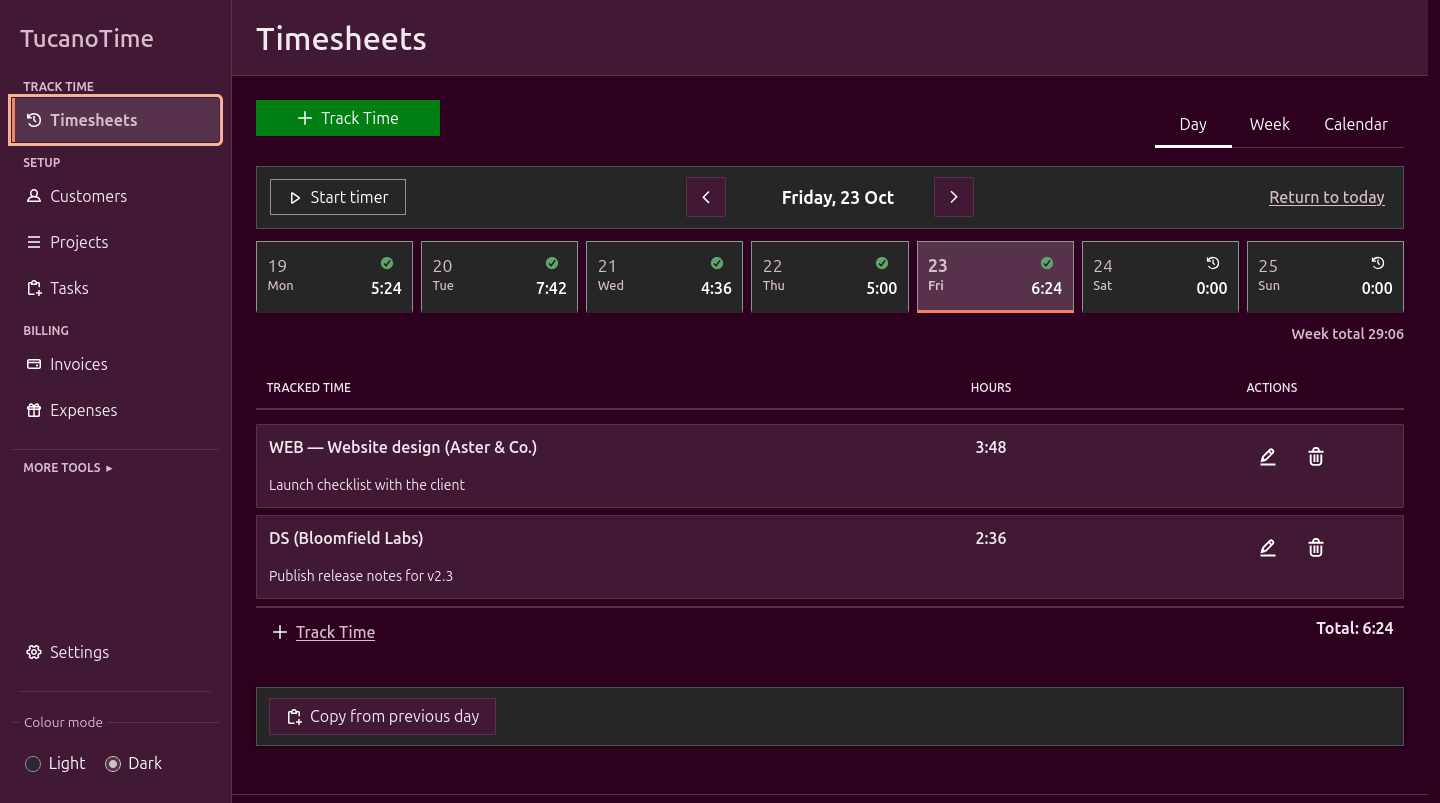
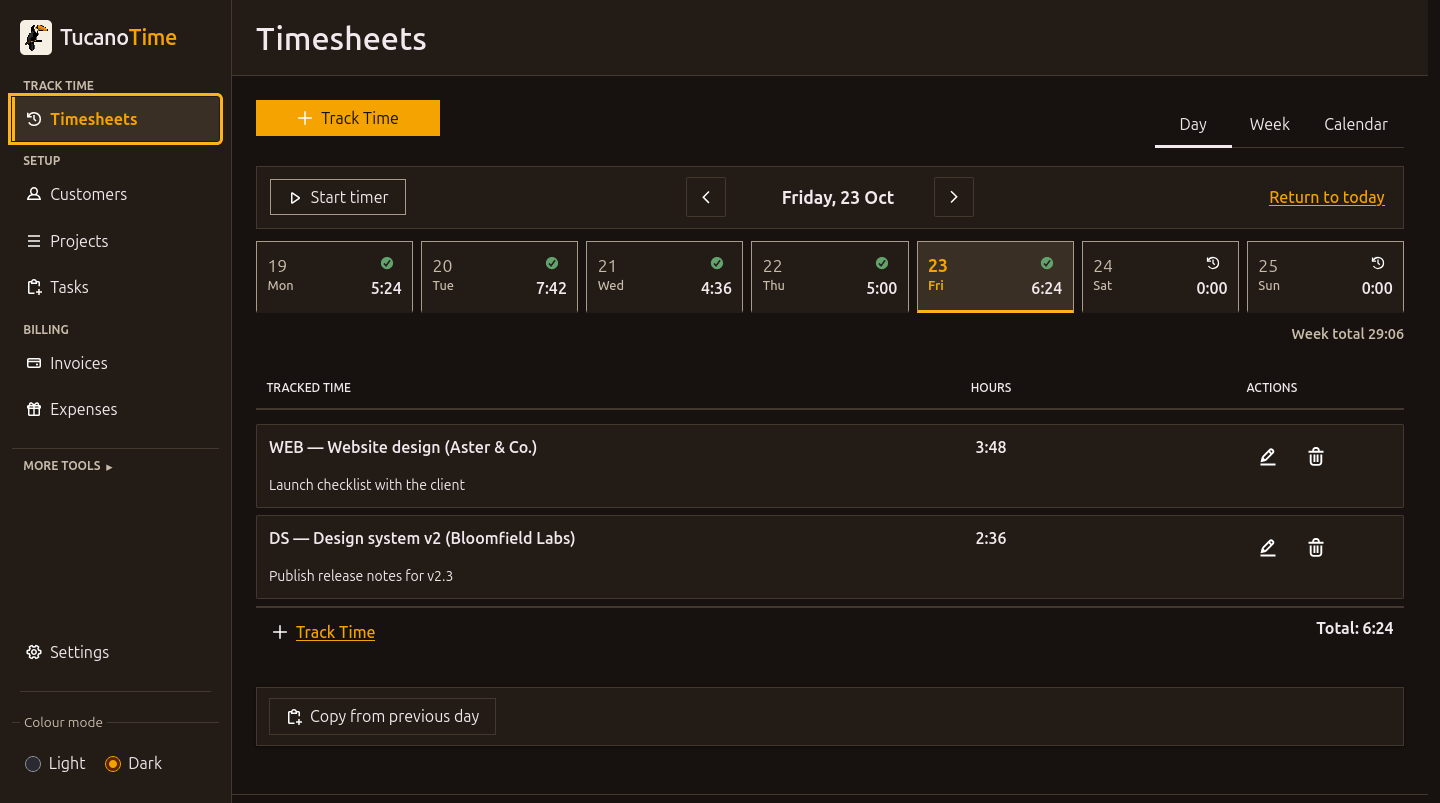
feat: refresh screenshots and clarify the AI wording
Use the newly branded Tucano Time app captures (light, dark, week,
invoices, expenses and the mobile hero) and update the social card.

Replace the absolute "no AI" claim with the accurate story: AI tools
helped build the app, but the running product has no AI in its data path
and never sends timesheets, clients or invoices to an AI. Update the
privacy page, FAQ, metadata, house rules and image dimensions, and
cache-bust the changed screenshot URLs.

diff --git a/site/index.html b/site/index.html
@@ -4,7 +4,7 @@
   <meta charset="utf-8">
   <meta name="viewport" content="width=device-width, initial-scale=1">
   <title>Tucano Time — Self-hosted timesheets and invoicing</title>
-  <meta name="description" content="Free, self-hosted timesheets and invoicing for freelancers and small teams. Your data stays on your hardware. No cloud, no telemetry, no AI. AGPL-3.0.">
+  <meta name="description" content="Free, self-hosted timesheets and invoicing for freelancers and small teams. Your data stays on your hardware. No cloud, no telemetry, and AI never touches your data. AGPL-3.0.">
   <link rel="canonical" href="https://tucanotime.com/">
   <meta name="theme-color" content="#f6f0e4">
   <meta name="color-scheme" content="light">
@@ -13,7 +13,7 @@
   <meta property="og:site_name" content="Tucano Time">
   <meta property="og:url" content="https://tucanotime.com/">
   <meta property="og:title" content="Tucano Time — Your hours. Your invoices. Your server.">
-  <meta property="og:description" content="A free, self-hosted timesheet and invoicing app for freelancers and small teams. Plain files, no cloud, no telemetry, no AI.">
+  <meta property="og:description" content="A free, self-hosted timesheet and invoicing app for freelancers and small teams. Plain files, no cloud, no telemetry — and AI never touches your data.">
   <meta property="og:image" content="https://tucanotime.com/assets/img/og.png">
   <meta property="og:image:width" content="1200">
   <meta property="og:image:height" content="630">
@@ -22,7 +22,7 @@
   <meta name="author" content="Tucano Technology">
   <meta name="twitter:card" content="summary_large_image">
   <meta name="twitter:title" content="Tucano Time — Your hours. Your invoices. Your server.">
-  <meta name="twitter:description" content="Free, self-hosted timesheets and invoicing. Your data stays on your hardware. No cloud, no telemetry, no AI.">
+  <meta name="twitter:description" content="Free, self-hosted timesheets and invoicing. Your data stays on your hardware. No cloud, no telemetry; AI never touches your data.">
   <meta name="twitter:image" content="https://tucanotime.com/assets/img/og.png">
   <meta name="twitter:image:alt" content="Tucano Time — your hours, your invoices, your server.">
 
@@ -68,7 +68,7 @@
         <div class="hero-copy">
           <p class="eyebrow"><span class="pulse" aria-hidden="true"></span> Free &amp; open source · Self-hosted</p>
           <h1>Your hours. Your invoices. <em>Your server.</em></h1>
-          <p class="hero-lede">Tucano Time is a calm, fast timesheet and invoicing app for freelancers and small teams. Run it on hardware you control and keep every client, hour and invoice in files you actually own — never in a cloud, and never in an AI.</p>
+          <p class="hero-lede">Tucano Time is a calm, fast timesheet and invoicing app for freelancers and small teams. Run it on hardware you control and keep every client, hour and invoice in files you actually own — never in someone else's cloud, and never fed to an AI.</p>
           <div class="hero-actions">
             <a class="btn btn-primary" href="#self-host">
               Self-host in minutes
@@ -83,7 +83,7 @@
             <li>AGPL-3.0</li>
             <li>No account</li>
             <li>No telemetry</li>
-            <li>No AI</li>
+            <li>AI never sees your data</li>
           </ul>
         </div>
 
@@ -96,8 +96,8 @@
               <span class="browser-local">local</span>
             </div>
             <picture>
-              <source media="(max-width: 620px)" srcset="assets/img/shot-day-mobile.png">
-              <img src="assets/img/shot-day.png" width="1440" height="940" alt="Tucano Time day view showing entries for two projects, the week strip with daily totals, and a start-timer button" fetchpriority="high">
+              <source media="(max-width: 620px)" srcset="assets/img/shot-day-mobile.png?v=2">
+              <img src="assets/img/shot-day.png?v=2" width="1440" height="803" alt="Tucano Time day view showing entries for two projects, the week strip with daily totals, and a start-timer button" fetchpriority="high">
             </picture>
           </figure>
           <img class="hero-toucan" src="assets/brand/tucano.png" alt="" width="223" height="244" aria-hidden="true">
@@ -125,7 +125,7 @@
             <p class="kicker">Data sovereignty</p>
             <h2>Your business is not <span class="mark">training data.</span></h2>
           </div>
-          <p class="lede">Tucano Time has no cloud account, no usage analytics and no AI anywhere in the product. It talks only to services you explicitly configure, plus an anonymous public exchange-rate feed. Everything else stays on the machine you chose.</p>
+          <p class="lede">Tucano Time has no cloud account, no usage analytics and no AI in its data path. AI tools helped build the software, but they never see your timesheets, clients or invoices. The app talks only to integrations you configure, plus an anonymous public exchange-rate feed.</p>
         </div>
 
         <div class="sovereignty-grid">
@@ -158,8 +158,8 @@
             <li>
               <span class="promise-num">02</span>
               <div>
-                <h3>No AI. No telemetry.</h3>
-                <p>There is no model, no tracking pixel and no third-party script. The browser GUI is served by the same binary, and nothing reports back to Tucano Technology.</p>
+                <h3>Built with AI. Not on your data.</h3>
+                <p>AI tools helped write the code. The running app has no model, no AI feature and no tracking pixel — your timesheets and invoices are never sent to an AI. Nothing reports back to Tucano Technology.</p>
               </div>
             </li>
             <li>
@@ -280,10 +280,10 @@
         </div>
 
         <div class="tour-tabs" role="tablist" aria-label="Product screens">
-          <button class="tour-tab is-active" type="button" role="tab" id="tab-day" aria-controls="tour-panel" aria-selected="true" data-img="assets/img/shot-day.png" data-alt="Day timesheet with project entries and weekly totals" data-url="localhost:8080/timesheets/day" data-kicker="Timesheets" data-title="A day, at a glance." data-copy="Hours per project, notes, week totals and a timer on one screen. Each day shows what is billable, what is missing and what has already been invoiced.">Day</button>
-          <button class="tour-tab" type="button" role="tab" id="tab-week" aria-controls="tour-panel" aria-selected="false" tabindex="-1" data-img="assets/img/shot-week.png" data-alt="Week grid with editable hours per project and day totals" data-url="localhost:8080/timesheets/week" data-kicker="Timesheets" data-title="Fill the week, not a form." data-copy="Type hours straight into the grid, press Enter to save, and copy the previous week when it rhymes. Totals update per day and per project as you go.">Week</button>
-          <button class="tour-tab" type="button" role="tab" id="tab-invoices" aria-controls="tour-panel" aria-selected="false" tabindex="-1" data-img="assets/img/shot-invoices.png" data-alt="Invoice register with drafts, sent invoices, part payments and an outstanding balance" data-url="localhost:8080/invoices" data-kicker="Invoices" data-title="From hours to a sent invoice." data-copy="Drafts, sent, partly paid, paid, written off. Issuing archives the PDF and locks the time it billed; payments are recorded against the invoice without rewriting history.">Invoices</button>
-          <button class="tour-tab" type="button" role="tab" id="tab-expenses" aria-controls="tour-panel" aria-selected="false" tabindex="-1" data-img="assets/img/shot-expenses.png" data-alt="Expense register with categories, billable flags and amounts per project" data-url="localhost:8080/expenses" data-kicker="Expenses" data-title="Receipts without the shoebox." data-copy="Categorise project costs, attach receipts, mark what is billable, and roll approved expenses into the next invoice with the time they belong to.">Expenses</button>
+          <button class="tour-tab is-active" type="button" role="tab" id="tab-day" aria-controls="tour-panel" aria-selected="true" data-img="assets/img/shot-day.png?v=2" data-alt="Day timesheet with project entries and weekly totals" data-url="localhost:8080/timesheets/day" data-kicker="Timesheets" data-title="A day, at a glance." data-copy="Hours per project, notes, week totals and a timer on one screen. Each day shows what is billable, what is missing and what has already been invoiced.">Day</button>
+          <button class="tour-tab" type="button" role="tab" id="tab-week" aria-controls="tour-panel" aria-selected="false" tabindex="-1" data-img="assets/img/shot-week.png?v=2" data-alt="Week grid with editable hours per project and day totals" data-url="localhost:8080/timesheets/week" data-kicker="Timesheets" data-title="Fill the week, not a form." data-copy="Type hours straight into the grid, press Enter to save, and copy the previous week when it rhymes. Totals update per day and per project as you go.">Week</button>
+          <button class="tour-tab" type="button" role="tab" id="tab-invoices" aria-controls="tour-panel" aria-selected="false" tabindex="-1" data-img="assets/img/shot-invoices.png?v=2" data-alt="Invoice register with drafts, sent invoices, part payments and an outstanding balance" data-url="localhost:8080/invoices" data-kicker="Invoices" data-title="From hours to a sent invoice." data-copy="Drafts, sent, partly paid, paid, written off. Issuing archives the PDF and locks the time it billed; payments are recorded against the invoice without rewriting history.">Invoices</button>
+          <button class="tour-tab" type="button" role="tab" id="tab-expenses" aria-controls="tour-panel" aria-selected="false" tabindex="-1" data-img="assets/img/shot-expenses.png?v=2" data-alt="Expense register with categories, billable flags and amounts per project" data-url="localhost:8080/expenses" data-kicker="Expenses" data-title="Receipts without the shoebox." data-copy="Categorise project costs, attach receipts, mark what is billable, and roll approved expenses into the next invoice with the time they belong to.">Expenses</button>
         </div>
 
         <div class="tour-stage" id="tour-panel" role="tabpanel" aria-labelledby="tab-day" tabindex="0">
@@ -294,7 +294,7 @@
                 <span class="browser-url" id="tour-url">localhost:8080/timesheets/day</span>
                 <span class="browser-local">local</span>
               </div>
-              <img id="tour-img" src="assets/img/shot-day.png" width="1440" height="940" alt="Day timesheet with project entries and weekly totals" loading="lazy">
+              <img id="tour-img" src="assets/img/shot-day.png?v=2" width="1440" height="803" alt="Day timesheet with project entries and weekly totals" loading="lazy">
             </figure>
           </div>
           <div class="tour-meta">
@@ -311,7 +311,7 @@
               <span class="browser-dots"><i></i><i></i><i></i></span>
               <span class="browser-url">localhost:8080/timesheets/day</span>
             </div>
-            <img src="assets/img/shot-day-dark.png" width="1440" height="940" alt="The same day timesheet in Tucano Time's dark theme" loading="lazy">
+            <img src="assets/img/shot-day-dark.png?v=2" width="1440" height="803" alt="The same day timesheet in Tucano Time's dark theme" loading="lazy">
           </figure>
           <div class="dark-note-copy">
             <p class="tour-kicker">Included</p>
@@ -390,7 +390,7 @@
           </li>
           <li>
             <h3>Quiet by default</h3>
-            <p>No account and no telemetry. Outbound calls exist only for integrations you configure, plus the ECB reference-rate feed — replaceable with a local file for air-gapped installs.</p>
+            <p>No account, no telemetry, and no AI in the data path. Outbound calls exist only for integrations you configure, plus the ECB reference-rate feed — replaceable with a local file for air-gapped installs.</p>
           </li>
           <li>
             <h3>Backups without a service</h3>
@@ -514,8 +514,8 @@ cargo test --all-targets</code></pre>
             <p>In a directory you choose — <code>/data</code> in the container, <code>./Data</code> locally. It is plain JSON plus archived PDFs. Copy it, zip it, inspect it. The app never needs a cloud account.</p>
           </details>
           <details>
-            <summary>Does it use AI or send data to third parties?</summary>
-            <p>No. There is no AI feature, no analytics and no telemetry. Network calls happen only for integrations you configure yourself: SMTP, an ICS or Google/Microsoft calendar, OIDC single sign-on, or optional accounting sync. Currency conversion fetches the ECB's anonymous daily reference rates, or reads a local <code>TUCANO_FX_RATES_FILE</code> for a fully offline install. Secrets live in an encrypted local vault.</p>
+            <summary>Was AI used to build it? Does it touch my data?</summary>
+            <p>AI tools helped build Tucano Time — but they never see your data. The running app has no AI features, no analytics and no telemetry. Your timesheets, clients and invoices stay in your data directory and are never sent to an AI. Network calls happen only for integrations you configure yourself: SMTP, an ICS or Google/Microsoft calendar, OIDC single sign-on, or optional accounting sync. Currency conversion fetches the ECB's anonymous daily reference rates, or reads a local <code>TUCANO_FX_RATES_FILE</code> for a fully offline install. Secrets live in an encrypted local vault.</p>
           </details>
           <details>
             <summary>Is there a hosted version?</summary>

diff --git a/site/privacy.html b/site/privacy.html
@@ -57,7 +57,7 @@
       <p>This page is static, so there is no account, no comment box and no newsletter to unsubscribe from.</p>
 
       <h2>The Tucano Time product</h2>
-      <p>Tucano Time is different from this website: it is software you run yourself. It has no cloud account, no telemetry and no AI features. Your timesheets, clients and invoices stay in your data directory. Network calls happen only for integrations the operator explicitly configures — mail, calendar, OIDC single sign-on, or optional accounting sync — plus the European Central Bank's anonymous daily exchange-rate feed used for currency conversion, which can be replaced with a local file. Credentials live in an encrypted local vault.</p>
+      <p>Tucano Time is different from this website: it is software you run yourself. It has no cloud account, no telemetry and no AI in its data path. AI tools helped build the software, but they never receive your records. Your timesheets, clients and invoices stay in your data directory. Network calls happen only for integrations the operator explicitly configures — mail, calendar, OIDC single sign-on, or optional accounting sync — plus the European Central Bank's anonymous daily exchange-rate feed used for currency conversion, which can be replaced with a local file. Credentials live in an encrypted local vault.</p>
       <p>The detailed security model is in the <a href="https://github.com/TucanoTechnology/TucanoTime/blob/main/docs/security.md" target="_blank" rel="noopener noreferrer">product documentation</a>.</p>
 
       <h2>Questions</h2>

diff --git a/tools/og-card.html b/tools/og-card.html
@@ -40,7 +40,7 @@
   <div>
     <div class="eyebrow">FREE · SELF-HOSTED · OPEN SOURCE</div>
     <h1>Your hours.<br>Your invoices.<br><em>Your server.</em></h1>
-    <p class="sub">Simple timesheets and invoicing that stay on your hardware. No cloud, no telemetry, no AI.</p>
+    <p class="sub">Simple timesheets and invoicing that stay on your hardware. No cloud. No telemetry. AI never sees your data.</p>
   </div>
 
   <div class="foot">

diff --git a/AGENTS.md b/AGENTS.md
@@ -27,9 +27,12 @@ must never collect or process user data.
    self-hosting is the product.
 3. **Free means free.** Say AGPL-3.0, no seat count, no invoice limit, no credit card. Never imply a
    trial, paid plan or vendor cloud.
-4. **Sovereignty claims must stay literal.** The site states no AI and no telemetry. Do not add an AI
-   feature, a chatbot embed, a "smart" integration or a third-party form. Network access is limited
-   to integrations the operator configures (SMTP, calendar, SSO, accounting sync).
+4. **AI in development is not AI in the product.** AI tools are used to build Tucano Time and this
+   site; say so. The product and this site must never send user data to AI, add an AI feature, embed a
+   chatbot/model or add a third-party form. Network access is limited to integrations the operator
+   configures (SMTP, calendar, SSO, accounting sync) plus the anonymous ECB reference-rate feed.
+   Keep the wording exact: "built with AI, but AI never touches your data" — never "no AI was
+   involved".
 5. **Accessibility does not regress.** Keyboard-operable navigation and tabs, visible focus,
    labelled controls, `aria-selected`/`aria-expanded` kept correct, contrast preserved in every
    section, and all motion disabled under `prefers-reduced-motion`. Check both 390 px and desktop.
@@ -39,7 +42,7 @@ must never collect or process user data.
    transformed filtered pixel art).
 7. **Screenshots come from the real product.** Use a throwaway data directory seeded with fictional
    demo data. Never commit a screenshot containing a real customer, invoice, email address or
-   credential. Desktop captures are 1440×940; the mobile hero is a narrow portrait capture (currently 500×758, the smallest headless Firefox window).
+   credential. Desktop captures are 1440×803; the mobile hero is a narrow portrait capture (currently 500×758, the smallest headless Firefox window).
 8. **Security headers stay on.** The container relies on the CSP, `nosniff`, frame denial, referrer
    policy and HSTS in `Caddyfile`. Do not weaken them for convenience; if Pages is used, note that
    GitHub Pages cannot set these headers, which is one reason the container exists.

diff --git a/README.md b/README.md
@@ -116,7 +116,7 @@ at your server instead of GitHub.
 - **Behaviour:** `site/js/site.js` — mobile navigation, screenshot tabs, clipboard buttons. No
   dependencies.
 - **Screenshots:** `site/assets/img/shot-*.png` are captures of a real Tucano Time instance seeded
-  with fictional demo data. Regenerate them at 1440×940 for desktop and at a narrow mobile width for the hero (the checked-in capture is 500×758);
+  with fictional demo data. Regenerate them at 1440×803 for desktop and at a narrow mobile width for the hero (the checked-in capture is 500×758);
   never use a real customer's data.
 - **Social card:** open `tools/og-card.html` and screenshot the 1200×630 viewport to
   `site/assets/img/og.png`.
@@ -124,6 +124,8 @@ at your server instead of GitHub.
 ### House rules
 
 - No analytics, trackers, cookies, external fonts or CDN scripts. The page must work offline.
+- Say **"built with AI, but AI never touches your data"**. AI helped develop the project; the site
+  and the product must never send user data to AI, and the product must not gain a runtime AI feature.
 - No invented features or pricing. Tucano Time is free software; there is no hosted edition.
 - Keep the accessibility bar: keyboard-operable tabs and navigation, visible focus, labelled
   controls, adequate contrast, and motion disabled under `prefers-reduced-motion`.

diff --git a/tools/README.md b/tools/README.md
@@ -16,4 +16,4 @@ Save the capture as `site/assets/img/og.png`. The meta tags in `site/index.html`
 with the absolute `https://tucanotime.com/` origin.
 
 Screenshots of the product itself (`site/assets/img/shot-*.png`) come from a real Tucano Time
-instance with a throwaway data directory and fictional demo data. Capture desktop views at 1440×940 and the mobile hero at a narrow portrait width; keep the browser chrome out of the crop.
+instance with a throwaway data directory and fictional demo data. Capture desktop views at 1440×803 and the mobile hero at a narrow portrait width; keep the browser chrome out of the crop.
